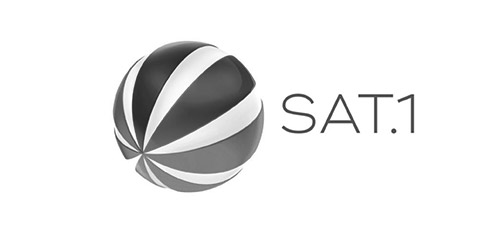
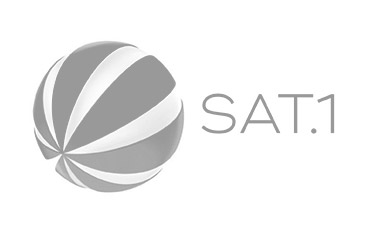
Update press page with new assets and download links (#199)
* Update of press page
* Add new assets
* Remove old assets
* renamed components and links to have consistent english
* updated Press component itself
* Added multiple routes for press page backwards compatibility
* Add article text as unique key
* Generate download link for press from firebase storage

Close #188 
Close #201

Changed region(s): [[0.0873, 0.1509, 0.9021, 0.8448]]

diff --git a/src/views/Press.jsx b/src/views/Press.jsx
@@ -1,7 +1,32 @@
-import React from 'react';
+import React, { useEffect, useState } from 'react';
+import * as Sentry from '@sentry/browser';
+import * as firebase from 'firebase/app';
 import Footer from '../components/Footer';
+import 'firebase/storage';
 
-export default function Presse() {
+function useFirebaseDownload(url, fb) {
+  const [link, setLink] = useState('');
+  const [error, setError] = useState(null);
+
+  useEffect(() => {
+    fb.storage()
+      .refFromURL(url)
+      .getDownloadURL()
+      .then((l) => setLink(l))
+      .catch((err) => setError(err));
+  }, [fb, url]);
+
+  return [link, error];
+}
+
+export default function Press() {
+  const [presseLink, errorGeneratingPressLink] = useFirebaseDownload('gs://quarantine-hero-assets/MarketingKit.zip', firebase);
+
+  if (errorGeneratingPressLink) {
+    console.error('Could not generate press link', errorGeneratingPressLink);
+    Sentry.captureException(errorGeneratingPressLink);
+  }
+
   const Article = (props) => (
     <div className="bg-kaki p-4 mb-4 mt-4 font-open-sans w-full">
       <div className="text-xs text-gray-700">{props.date}</div>
@@ -108,7 +133,7 @@ export default function Presse() {
             <br className="sm:hidden" />
             {' '}
             <a
-              href="https://we.tl/t-FhgDBEFBih"
+              href={presseLink}
               className="text-secondary hover:underline"
               target="_blank"
               rel="noopener noreferrer"
@@ -124,35 +149,56 @@ export default function Presse() {
           </div>
         </div>
         <div className="my-8 flex flex-wrap mb-16">
-          <div className="w-1/3 h-auto">
-            <img alt="bunte" src={require('../assets/bunte_de.jpg')} />
-          </div>
-          <div className="w-1/3 h-auto">
-            <img alt="businessinsider" src={require('../assets/business_insider.jpg')} />
-          </div>
-          <div className="w-1/3 h-auto">
-            <img alt="rpr1" src={require('../assets/rpr1.jpg')} />
-          </div>
-          <div className="w-1/3 h-auto">
-            <img alt="utopia" src={require('../assets/utopia.jpg')} />
-          </div>
-          <div className="w-1/3 h-auto">
-            <img alt="bigfm" src={require('../assets/bigfm.jpg')} />
-          </div>
-          <div className="w-1/3 h-auto">
-            <img alt="br" src={require('../assets/br.jpg')} />
-          </div>
-          <div className="w-1/3 h-auto">
-            <img alt="cosmo" src={require('../assets/cosmo.jpg')} />
-          </div>
-          <div className="w-1/3 h-auto">
-            <img alt="sat1" src={require('../assets/sat1.jpg')} />
-          </div>
-          <div className="w-1/3 h-auto">
+          <div className="w-1/4 h-auto">
             <img alt="zdf" src={require('../assets/zdf.jpg')} />
           </div>
+          <div className="w-1/4 h-auto">
+            <img alt="sueddeutsche_zeitung" src={require('../assets/sueddeutsche_zeitung.jpg')} />
+          </div>
+          <div className="w-1/4 h-auto">
+            <img alt="sat1" src={require('../assets/sat1.jpg')} />
+          </div>
+          <div className="w-1/4 h-auto">
+            <img alt="berliner_morgenpost" src={require('../assets/berliner_morgenpost.jpg')} />
+          </div>
+          <div className="w-1/4 h-auto">
+            <img alt="deutschlandfunk" src={require('../assets/deutschlandfunk.jpg')} />
+          </div>
+          <div className="w-1/4 h-auto">
+            <img alt="wdr" src={require('../assets/wdr.jpg')} />
+          </div>
+          <div className="w-1/4 h-auto">
+            <img alt="hr" src={require('../assets/hr.jpg')} />
+          </div>
+          <div className="w-1/4 h-auto">
+            <img alt="br" src={require('../assets/br.jpg')} />
+          </div>
+          <div className="w-1/4 h-auto">
+            <img alt="welt" src={require('../assets/welt.jpg')} />
+          </div>
+          <div className="w-1/4 h-auto">
+            <img alt="focus_online" src={require('../assets/focus_online.jpg')} />
+          </div>
+          <div className="w-1/4 h-auto">
+            <img alt="greenpeace_magazin" src={require('../assets/greenpeace_magazin.jpg')} />
+          </div>
+          <div className="w-1/4 h-auto">
+            <img alt="aktion_mensch" src={require('../assets/aktion_mensch.jpg')} />
+          </div>
+          <div className="w-1/4 h-auto">
+            <img alt="utopia" src={require('../assets/utopia.jpg')} />
+          </div>
+          <div className="w-1/4 h-auto">
+            <img alt="vogue" src={require('../assets/vogue.jpg')} />
+          </div>
+          <div className="w-1/4 h-auto">
+            <img alt="cosmopolitan" src={require('../assets/cosmopolitan.jpg')} />
+          </div>
+          <div className="w-1/4 h-auto">
+            <img alt="bunte_de" src={require('../assets/bunte_de.jpg')} />
+          </div>
         </div>
-        {articles.map((article) => <Article {...article} key={article.link} />)}
+        {articles.map((article) => <Article key={article.link || article.text} {...article} />)}
         <div className="bg-kaki p-4 mb-4 mt-4 font-open-sans w-full text-center">
           <div className="font-bold">Und viele mehr!</div>
         </div>

diff --git a/src/App.jsx b/src/App.jsx
@@ -32,7 +32,7 @@ import CompleteOfferHelp from './views/CompleteOfferHelp';
 import NotifyMe from './views/NotifyMe';
 import ScrollToTop from './components/ScrollToTop';
 import ShareButtons from './components/ShareButtons';
-import Presse from './views/Presse';
+import Press from './views/Press';
 import createEventListener from './util/createEventListener';
 import Security from './views/Security';
 
@@ -84,7 +84,7 @@ function App(props) {
               <button type="button" data-cy="btn-sign-out" className="mr-4 font-open-sans text-gray-700" to="#" onClick={signOut}>{t('components.desktopMenu.signOut')}</button>
             </>
           )}
-          <Link className="mr-6 font-open-sans text-gray-700" to="/presse">{t('App.press')}</Link>
+          <Link className="mr-6 font-open-sans text-gray-700" to="/press">{t('App.press')}</Link>
           <ShareButtons />
         </div>
         <div className="phone-width bg-white shadow-xl min-h-screen md:mt-6">
@@ -147,8 +147,8 @@ function App(props) {
                 <Route path="/dsgvo">
                   <DSGVO />
                 </Route>
-                <Route path="/presse">
-                  <Presse />
+                <Route path={['/press', '/presse']}>
+                  <Press />
                 </Route>
                 <Route path="/notify-me">
                   <NotifyMe />

diff --git a/src/components/Sidebar.jsx b/src/components/Sidebar.jsx
@@ -51,7 +51,7 @@ export default function Sidebar(props) {
       {menuProps.isLoggedIn && <MenuItem to="/dashboard">{t('components.sidebar.yourOverview')}</MenuItem>}
       <MenuItem to="/faq">{t('components.sidebar.FAQs')}</MenuItem>
       <MenuItem to="/security-tips">{t('components.sidebar.safety')}</MenuItem>
-      <MenuItem to="/presse">{t('components.sidebar.press')}</MenuItem>
+      <MenuItem to="/press">{t('components.sidebar.press')}</MenuItem>
       <MenuItem to="/impressum">{t('components.sidebar.legal')}</MenuItem>
       <MenuItem to="/dsgvo">{t('components.sidebar.privacy')}</MenuItem>
 
